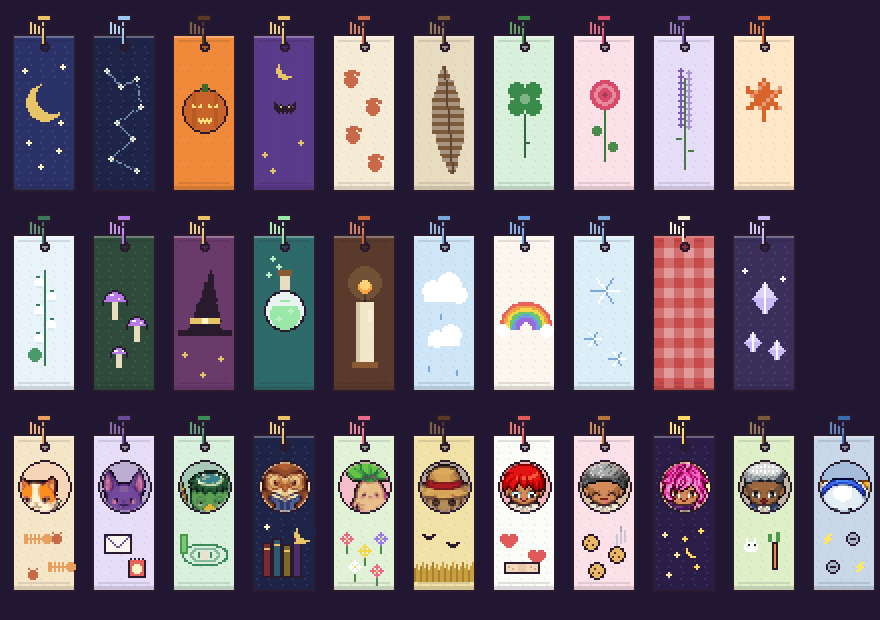
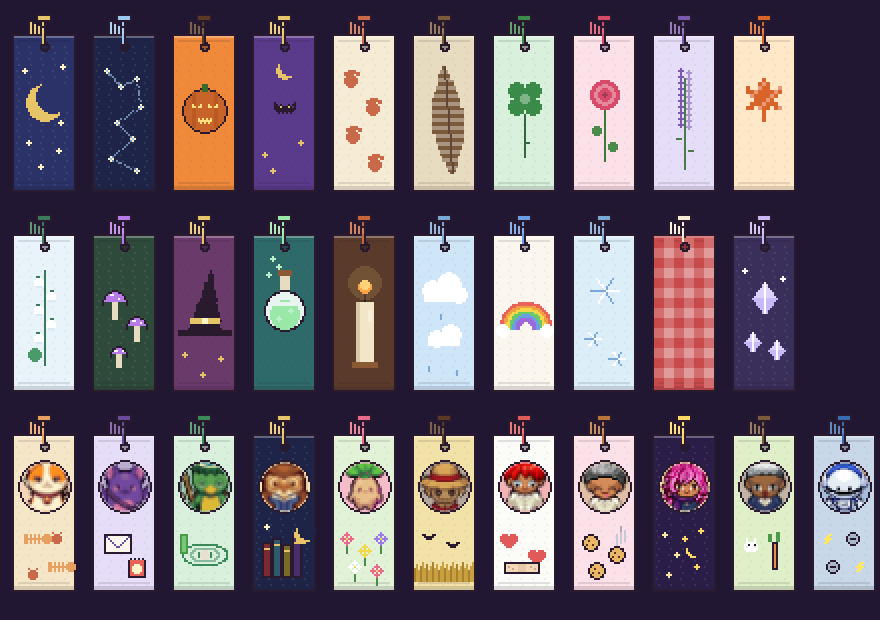
NPC 책갈피: NPC마다 얼굴 자리를 따로 잘라 동그라미 가운데에 맞춤
Claude-Session: https://claude.ai/code/session_01HhJ2NoNCjk5kaA3GWL7UDs

Changed region(s): [[0.3989, 0.7355, 1.0, 0.8274], [0.0, 0.7355, 0.2761, 0.8274], [0.3068, 0.7355, 0.3682, 0.8274]]

diff --git a/tools/bookmark_mock/bookmarks.html b/tools/bookmark_mock/bookmarks.html
@@ -152,7 +152,10 @@ const NPCB = [
 ].map(([id, n, row, bg, fg, m, d]) => ({ id, n, row, bg, fg, m: { g_cotton: 1, ...m }, d, npc: true }));
 const RIB = { moon: '#E8C468', star: '#9AC8F0', pumpkin: '#5A3A24', bat: '#E8C468', paw: '#C86A4A', feather: '#7A5A3A', clover: '#3A8A4A', rose: '#D84A6A', lav: '#7A5AB0', maple: '#D8642A', lily: '#3A7A5A', mush: '#B87AE8', hat: '#E8C468', potion: '#9AE8A8', candle: '#C8643A', cloud: '#7AA8D8', rainbow: '#6A9FE8', snow: '#7AA8D8', check: '#F6ECD6', crystal: '#C8B8F8' };
 // ===== 도트 (36 × 92)
-const OL = '#2A1A2E', FY = { 3: 12, 4: 16 };   // 얼굴 위치가 다른 NPC (아울라 · 맨디)
+const OL = '#2A1A2E';
+// NPC마다 얼굴이 있는 자리 (그림 64 칸 안에서 [x, y, 크기]) · 동그라미 가운데에 꽉 차게 그려요
+const FACE = { 0: [13, 23, 28], 1: [18, 19, 28], 2: [18, 22, 28], 3: [19, 24, 28], 4: [20, 30, 30], 5: [16, 15, 32], 6: [18, 18, 28], 7: [17, 14, 30], 8: [16, 15, 30], 9: [18, 16, 28], 10: [15, 20, 34] };
+const faceAt = (q, row, dx, dy, d) => { const [x, y, z] = FACE[row] || [16, 10, 32]; if (SHEET.complete) q.drawImage(SHEET, x, row * 64 + y, z, z, dx, dy, d, d); };
 const hex = h => [1, 3, 5].map(i => parseInt(h.slice(i, i + 2), 16)), mix = (a, b, t) => a.map((v, i) => Math.round(v + (b[i] - v) * t)), rgb = c => `rgb(${c[0]},${c[1]},${c[2]})`;
 const shade = (h, k) => rgb(mix(hex(h), k > 0 ? [255, 255, 255] : [30, 20, 40], Math.abs(k)));
 function draw(q, B){
@@ -169,7 +172,7 @@ function draw(q, B){
   for (let k = 0; k < 4; k++){ P(10 + k * 2 - (k > 1 ? 0 : 0), 5 + k, 2, 7 - k, OL); P(11 + k * 2, 6 + k, 1, 6 - k, shade(rib, .2)); }
   if (B.npc){
     C(18, 38, 13, OL); C(18, 38, 12, shade(B.fg, .55));
-    q.save(); q.beginPath(); q.arc(18.5, 38.5, 12, 0, 7); q.clip(); if (SHEET.complete) q.drawImage(SHEET, 16, B.row * 64 + 10 + (FY[B.row] || 0), 32, 32, 2, 22, 32, 32); q.restore();
+    q.save(); q.beginPath(); q.arc(18.5, 38.5, 12, 0, 7); q.clip(); faceAt(q, B.row, 5, 25, 27); q.restore();
     npcMotif(q, B, P, C, BM); return;
   }
   motif(q, B, P, C, BM);
@@ -223,7 +226,7 @@ function refill(){ Object.keys(NAMES).forEach(k => ST.inv[k] = 3); } refill(); [
 const all = () => [...BASIC, ...NPCB], byId = id => all().find(b => b.id === id);
 const can = B => Object.entries(B.m).every(([k, n]) => (ST.inv[k] || 0) >= n) && (!B.npc || (ST.heart[B.id] || 0) >= 3);
 function gtoast(t){ const el = $('#gtoast'); el.textContent = t; el.classList.add('on'); clearTimeout(gtoast.t); gtoast.t = setTimeout(() => el.classList.remove('on'), 2200); }
-const face = (cv, row) => { const q = cv.getContext('2d'); q.imageSmoothingEnabled = false; q.clearRect(0, 0, cv.width, cv.height); if (SHEET.complete) q.drawImage(SHEET, 16, row * 64 + 10 + (FY[row] || 0), 32, 32, 0, 0, cv.width, cv.height); };
+const face = (cv, row) => { const q = cv.getContext('2d'); q.imageSmoothingEnabled = false; q.clearRect(0, 0, cv.width, cv.height); faceAt(q, row, 0, 0, cv.width); };
 const sec = (title, body, aside = '') => `<section class="cd"><div class="cdh"><h3>${title}</h3>${aside}</div>${body}</section>`;
 function render(){
   $('#tabs').innerHTML = [['basic', '기본 20'], ['npc', 'NPC 11'], ['mine', '내 책갈피']].map(([k, n]) => `<button data-tab="${k}" class="${ST.tab === k ? 'on' : ''}">${n}</button>`).join('');

diff --git a/tools/bookmark_mock/bookmarks.tpl.html b/tools/bookmark_mock/bookmarks.tpl.html
@@ -65,7 +65,10 @@ const NPCB = [
 ].map(([id, n, row, bg, fg, m, d]) => ({ id, n, row, bg, fg, m: { g_cotton: 1, ...m }, d, npc: true }));
 const RIB = { moon: '#E8C468', star: '#9AC8F0', pumpkin: '#5A3A24', bat: '#E8C468', paw: '#C86A4A', feather: '#7A5A3A', clover: '#3A8A4A', rose: '#D84A6A', lav: '#7A5AB0', maple: '#D8642A', lily: '#3A7A5A', mush: '#B87AE8', hat: '#E8C468', potion: '#9AE8A8', candle: '#C8643A', cloud: '#7AA8D8', rainbow: '#6A9FE8', snow: '#7AA8D8', check: '#F6ECD6', crystal: '#C8B8F8' };
 // ===== 도트 (36 × 92)
-const OL = '#2A1A2E', FY = { 3: 12, 4: 16 };   // 얼굴 위치가 다른 NPC (아울라 · 맨디)
+const OL = '#2A1A2E';
+// NPC마다 얼굴이 있는 자리 (그림 64 칸 안에서 [x, y, 크기]) · 동그라미 가운데에 꽉 차게 그려요
+const FACE = { 0: [13, 23, 28], 1: [18, 19, 28], 2: [18, 22, 28], 3: [19, 24, 28], 4: [20, 30, 30], 5: [16, 15, 32], 6: [18, 18, 28], 7: [17, 14, 30], 8: [16, 15, 30], 9: [18, 16, 28], 10: [15, 20, 34] };
+const faceAt = (q, row, dx, dy, d) => { const [x, y, z] = FACE[row] || [16, 10, 32]; if (SHEET.complete) q.drawImage(SHEET, x, row * 64 + y, z, z, dx, dy, d, d); };
 const hex = h => [1, 3, 5].map(i => parseInt(h.slice(i, i + 2), 16)), mix = (a, b, t) => a.map((v, i) => Math.round(v + (b[i] - v) * t)), rgb = c => `rgb(${c[0]},${c[1]},${c[2]})`;
 const shade = (h, k) => rgb(mix(hex(h), k > 0 ? [255, 255, 255] : [30, 20, 40], Math.abs(k)));
 function draw(q, B){
@@ -82,7 +85,7 @@ function draw(q, B){
   for (let k = 0; k < 4; k++){ P(10 + k * 2 - (k > 1 ? 0 : 0), 5 + k, 2, 7 - k, OL); P(11 + k * 2, 6 + k, 1, 6 - k, shade(rib, .2)); }
   if (B.npc){
     C(18, 38, 13, OL); C(18, 38, 12, shade(B.fg, .55));
-    q.save(); q.beginPath(); q.arc(18.5, 38.5, 12, 0, 7); q.clip(); if (SHEET.complete) q.drawImage(SHEET, 16, B.row * 64 + 10 + (FY[B.row] || 0), 32, 32, 2, 22, 32, 32); q.restore();
+    q.save(); q.beginPath(); q.arc(18.5, 38.5, 12, 0, 7); q.clip(); faceAt(q, B.row, 5, 25, 27); q.restore();
     npcMotif(q, B, P, C, BM); return;
   }
   motif(q, B, P, C, BM);
@@ -136,7 +139,7 @@ function refill(){ Object.keys(NAMES).forEach(k => ST.inv[k] = 3); } refill(); [
 const all = () => [...BASIC, ...NPCB], byId = id => all().find(b => b.id === id);
 const can = B => Object.entries(B.m).every(([k, n]) => (ST.inv[k] || 0) >= n) && (!B.npc || (ST.heart[B.id] || 0) >= 3);
 function gtoast(t){ const el = $('#gtoast'); el.textContent = t; el.classList.add('on'); clearTimeout(gtoast.t); gtoast.t = setTimeout(() => el.classList.remove('on'), 2200); }
-const face = (cv, row) => { const q = cv.getContext('2d'); q.imageSmoothingEnabled = false; q.clearRect(0, 0, cv.width, cv.height); if (SHEET.complete) q.drawImage(SHEET, 16, row * 64 + 10 + (FY[row] || 0), 32, 32, 0, 0, cv.width, cv.height); };
+const face = (cv, row) => { const q = cv.getContext('2d'); q.imageSmoothingEnabled = false; q.clearRect(0, 0, cv.width, cv.height); faceAt(q, row, 0, 0, cv.width); };
 const sec = (title, body, aside = '') => `<section class="cd"><div class="cdh"><h3>${title}</h3>${aside}</div>${body}</section>`;
 function render(){
   $('#tabs').innerHTML = [['basic', '기본 20'], ['npc', 'NPC 11'], ['mine', '내 책갈피']].map(([k, n]) => `<button data-tab="${k}" class="${ST.tab === k ? 'on' : ''}">${n}</button>`).join('');
